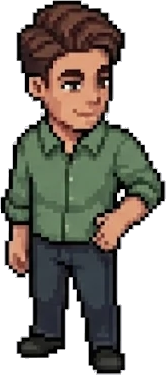
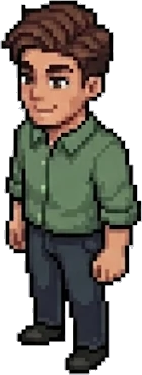
앞모습 방향 교체, 말풍선 위치, 입장 후 직진 이동
- 휠체어 이용자·트랜스젠더 이용자 앞모습 두 그림 교체
- 결과 말풍선을 캐릭터 머리 위로 올림
- 입구에 들어와 5칸 곧장 들어간 뒤 꺾고, 나갈 때도 같은 길로 나감

Claude-Session: https://claude.ai/code/session_01MbA6voPuP9hfFURsXTDC13

diff --git a/js/logic.js b/js/logic.js
@@ -352,6 +352,17 @@ var ModuLogic = (function () {
       var first = bfs(b, cfg, k, walkable);
       if (!first.order.length) { var e = cfg.entrance[0]; return { path: [{ x: e.x, y: e.y - k + 1 }], k: k }; }
       var home = first.order[0], cur = home, path = [home];
+      // 입구에 들어와 바로 꺾지 않고 화장실 안쪽으로 몇 칸 곧장 걸어 들어감
+      var LEAD = 5, leadFn = v.id === 'blind' ? tactileWalk : walkable, lead = home;
+      var okState = function (x, y) {
+        for (var dy = 0; dy < k; dy++) for (var dx = 0; dx < k; dx++) if (!leadFn(x + dx, y + dy)) return false;
+        return true;
+      };
+      for (var n = 0; n < LEAD && okState(lead.x, lead.y - 1); n++) {
+        lead = { x: lead.x, y: lead.y - 1 };
+        path.push(lead);
+      }
+      cur = lead;
       function go(ids, walkFn) {
         if (!ofType(ids).length) return false;
         var w = bfs(b, cfg, k, walkFn, [cur]), target = null;
@@ -371,9 +382,12 @@ var ModuLogic = (function () {
       if (STEP2[v.id]) go(STEP2[v.id], walkable);
       // 3) 세면대: 휠체어 이용자·보호자는 낮은 세면대, 그 밖은 세면대 (없으면 낮은 세면대)
       if (!go(SINK[v.id] || ['sink'], walkable) && !SINK[v.id]) go(['sinkLow'], walkable);
-      // 4) 입구로
+      // 4) 입구로: 들어온 길처럼 안쪽 지점을 거쳐 곧장 나감
       var back = bfs(b, cfg, k, walkable, [cur]);
-      if (back.parent[key(b, home.x, home.y)] !== undefined) path = path.concat(pathTo(b, back, home).slice(1));
+      if (back.parent[key(b, lead.x, lead.y)] !== undefined) {
+        path = path.concat(pathTo(b, back, lead).slice(1));
+        for (var y2 = lead.y + 1; y2 <= home.y; y2++) path.push({ x: home.x, y: y2 });
+      } else if (back.parent[key(b, home.x, home.y)] !== undefined) path = path.concat(pathTo(b, back, home).slice(1));
       return { path: path, k: k };
     }
 

diff --git a/js/game.js b/js/game.js
@@ -331,7 +331,7 @@
       if (rv) {
         var px = rv.wx * s, py = rv.wy * s, size = s * Math.max(1.8, rv.r.size * 0.95);
         drawVisitor(rv.v, px, py, size, rv.face);
-        if (rv.arrived) drawBubble(rv.r.reason, px, py - size * 0.2, s, rv.r.ok);
+        if (rv.arrived) drawBubble(rv.r.reason, px, headTop(rv.v, py, size) - s * 0.1, s, rv.r.ok);
       }
     }
   }
@@ -591,7 +591,7 @@
     }
     items.sort(function (a, c) { return a.d - c.d; });
     items.forEach(function (it) { it.draw(); });
-    if (rv && rv.arrived) drawBubble(rv.r.reason, vp.x, vp.y - vsize * 0.2, s, rv.r.ok);
+    if (rv && rv.arrived) drawBubble(rv.r.reason, vp.x, headTop(rv.v, vp.y, vsize) - s * 0.1, s, rv.r.ok);
   }
 
   function visitorById(id) {
@@ -622,6 +622,13 @@
     }
   }
 
+  // 캐릭터 그림의 머리 꼭대기 (drawVisitor와 같은 계산). 말풍선은 이 위에 띄움
+  function headTop(v, py, size) {
+    var img = images['visitor:' + v.id + ':normal'];
+    return img ? py + size * 0.45 - size * 1.3 * (v.scale || 1) : py - size * 0.5;
+  }
+
+  // 말풍선: 아래 끝이 py보다 조금 위에 오도록 그림
   function drawBubble(text, px, py, s, ok) {
     var fs = Math.max(12, Math.min(16, s * 0.6));
     ctx.font = '600 ' + fs + 'px ' + getComputedStyle(document.body).fontFamily;
@@ -631,7 +638,7 @@
     var pad = fs * 0.6, lh = fs * 1.3;
     var bw = w + pad * 2, bh = lines.length * lh + pad * 1.4;
     var bx = Math.max(-state.tx + 4, Math.min(px - bw / 2, -state.tx + wrap.clientWidth - bw - 4));
-    var by = py - bh - s;
+    var by = py - bh - s * 0.2;
     if (by < -state.ty + 4) by = py + s;
     ctx.fillStyle = '#ffffff';
     ctx.strokeStyle = ok ? '#24855a' : '#c2453a'; ctx.lineWidth = 2;
